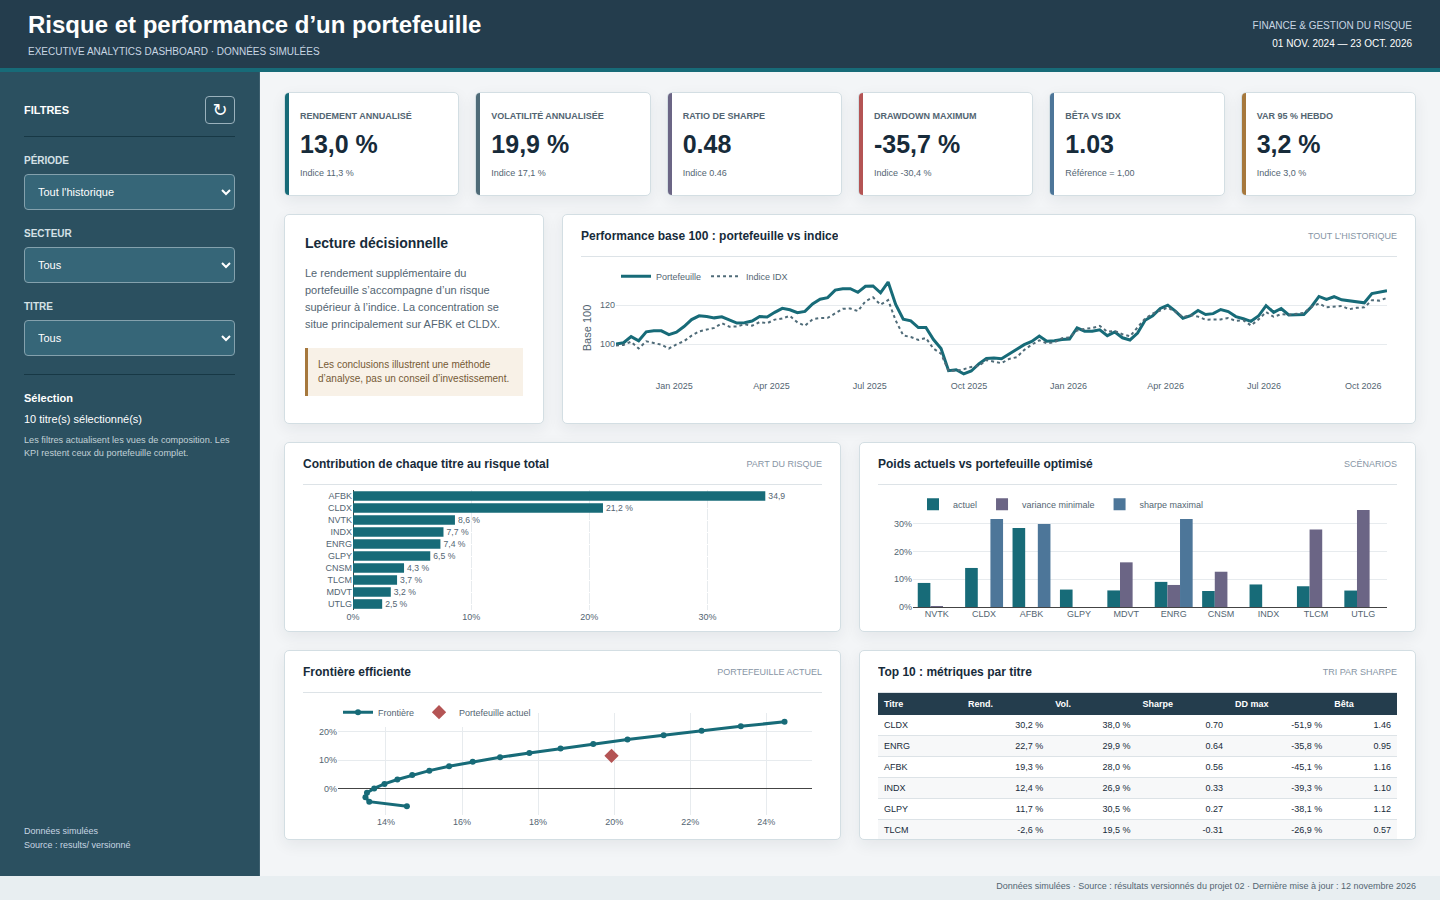
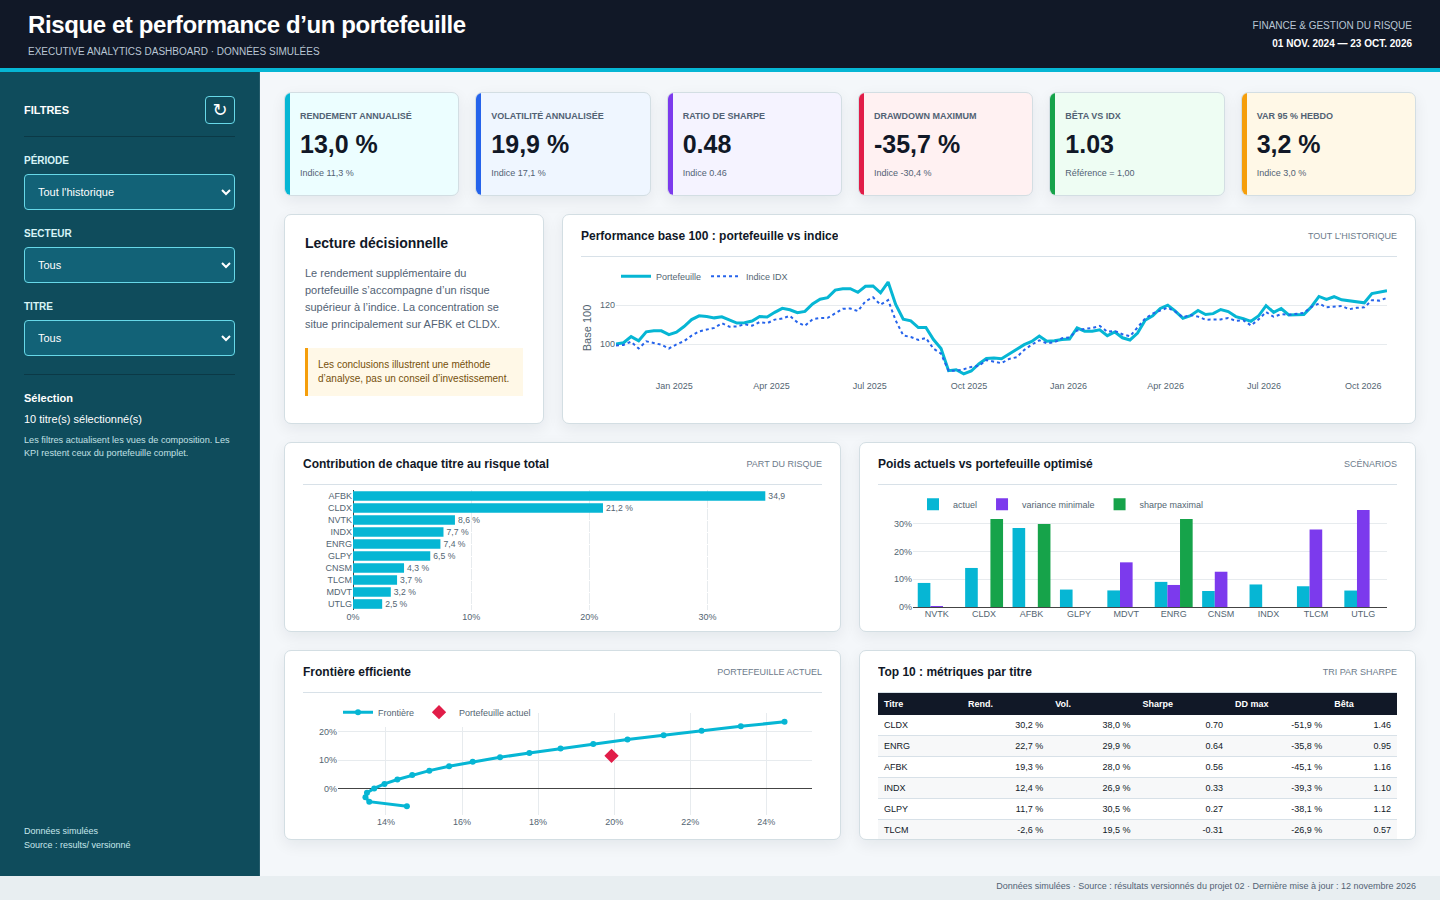
Ameliorer la palette visuelle du dashboard web

diff --git a/projects/02-portefeuille-risque/dashboard/web/styles.css b/projects/02-portefeuille-risque/dashboard/web/styles.css
@@ -1,1 +1,1 @@
-:root{font-family:"Segoe UI",Arial,sans-serif;color:#172B3A;background:#dfe6ea;--navy:#243D4D;--accent:#176B78;--muted:#536572;--line:#DDE3E7;--canvas:#F3F5F7;--surface:#fff;--positive:#2F7D62;--warn:#A6783D;--negative:#B45454}*{box-sizing:border-box}body{margin:0;min-width:320px;background:#dfe6ea}.dashboard{position:relative;width:min(1440px,100vw);min-height:900px;margin:auto;background:var(--canvas);display:grid;grid-template:72px 1fr 24px/260px 1fr;box-shadow:0 14px 40px #172b3a22}.topbar{grid-column:1/-1;background:var(--navy);color:#fff;padding:0 28px;display:flex;align-items:center;justify-content:space-between;border-bottom:4px solid var(--accent)}h1{font-size:24px;margin:0;font-weight:650} .topbar p,.context{font-size:10px;color:#c8d6e3;text-transform:uppercase;margin:7px 0 0}.context{text-align:right;margin:0;display:grid;gap:7px}.context strong{color:#fff;font-weight:500}.rail{grid-row:2;display:flex;flex-direction:column;gap:18px;padding:24px;color:#fff;background:#2b5060;border-right:1px solid #ffffff18}.rail-title{display:flex;justify-content:space-between;align-items:center;border-bottom:1px solid #173845;padding-bottom:12px;text-transform:uppercase;font-size:11px}.rail-title button{background:transparent;color:#fff;border:1px solid #9ab1bc;border-radius:4px;font-size:18px;width:30px;height:28px;cursor:pointer}.rail label{display:grid;gap:8px;color:#d5e1e6;font-size:10px;text-transform:uppercase;font-weight:650}.rail select{height:36px;background:#366678;color:#fff;border:1px solid #84a1ad;border-radius:4px;padding:0 9px;font-size:11px}.rail-note{display:grid;gap:9px;border-top:1px solid #173845;padding-top:17px;font-size:11px}.rail-note small{color:#c1d0d7;line-height:1.45}.rail footer{margin-top:auto;color:#c8d6e3;font-size:9px;line-height:1.5}.content{padding:20px 24px;display:grid;grid-template-rows:104px 210px 190px 190px;gap:18px;min-width:0}.kpis{display:grid;grid-template-columns:repeat(6,1fr);gap:16px}.kpi,.panel{background:#fff;border:1px solid #d3dee3;border-radius:5px;box-shadow:0 5px 15px #172b3a12}.kpi{position:relative;padding:18px 15px;display:grid;align-content:center;gap:9px;overflow:hidden}.kpi:before{content:"";position:absolute;left:0;top:0;bottom:0;width:4px;background:var(--accent-kpi)}.kpi label{font-size:9px;text-transform:uppercase;color:var(--muted);font-weight:650}.kpi strong{font-size:25px;font-weight:650;white-space:nowrap}.kpi small{font-size:9px;color:var(--muted)}.main-row,.two-row,.bottom-row{display:grid;gap:18px;min-width:0}.main-row{grid-template-columns:260px 1fr}.two-row,.bottom-row{grid-template-columns:1fr 1fr}.panel{padding:0 18px 12px;overflow:hidden}.panel header{height:42px;display:flex;align-items:center;justify-content:space-between;border-bottom:1px solid var(--line)}h2{font-size:12px;margin:0;font-weight:650;white-space:nowrap;overflow:hidden;text-overflow:ellipsis}.panel header span{font-size:9px;color:#8795a5;text-transform:uppercase}.plot{height:calc(100% - 42px);min-height:0}.filters-summary{padding:20px}.filters-summary h2{font-size:14px;margin-bottom:14px}.filters-summary p{font-size:11px;line-height:1.55;color:var(--muted);margin:0 0 15px}.notice{background:#f8f1e7;border-left:3px solid var(--warn);padding:10px;font-size:10px;line-height:1.4;color:#765a35}.table-panel{padding-bottom:0}.table-wrap{height:calc(100% - 42px);overflow:auto}.metrics-table{width:100%;border-collapse:collapse;font-size:9px}.metrics-table th{background:var(--navy);color:#fff;text-align:left;padding:6px}.metrics-table td{padding:5px 6px;border-bottom:1px solid var(--line);white-space:nowrap}.metrics-table tr:nth-child(even){background:#f7f8f9}.metrics-table td:not(:first-child){text-align:right}.page-footer{grid-column:1/-1;background:#e8eef1;color:var(--muted);font-size:9px;padding:5px 24px;text-align:right}@media(max-width:1050px){.dashboard{display:block;min-height:100vh}.topbar{height:72px}.rail{display:grid;grid-template-columns:repeat(3,1fr);gap:12px;padding:16px}.rail-title{grid-column:1/-1}.rail footer{display:none}.content{display:block;padding:16px}.kpis{overflow:auto;grid-template-columns:repeat(6,170px);padding-bottom:10px}.main-row,.two-row,.bottom-row{grid-template-columns:1fr;margin-top:16px}.panel{min-height:260px}.page-footer{display:none}}
+:root{font-family:"Segoe UI",Arial,sans-serif;color:#111827;background:#dbe4ea;--navy:#111827;--cyan:#06B6D4;--blue:#2563EB;--purple:#7C3AED;--green:#16A34A;--orange:#F59E0B;--red:#E11D48;--muted:#526274;--line:#D8E1E8;--canvas:#F4F7FA;--surface:#fff}*{box-sizing:border-box}body{margin:0;min-width:320px;background:#dbe4ea}.dashboard{position:relative;width:min(1440px,100vw);min-height:900px;margin:auto;background:var(--canvas);display:grid;grid-template:72px 1fr 24px/260px 1fr;box-shadow:0 14px 40px #11182730}.topbar{grid-column:1/-1;background:var(--navy);color:#fff;padding:0 28px;display:flex;align-items:center;justify-content:space-between;border-bottom:4px solid var(--cyan)}h1{font-size:24px;margin:0;font-weight:700;letter-spacing:-.4px}.topbar p,.context{font-size:10px;color:#b9c6d4;text-transform:uppercase;margin:7px 0 0}.context{text-align:right;margin:0;display:grid;gap:7px}.context strong{color:#fff;font-weight:600}.rail{grid-row:2;display:flex;flex-direction:column;gap:18px;padding:24px;color:#fff;background:#0F4C5C;border-right:1px solid #ffffff18}.rail-title{display:flex;justify-content:space-between;align-items:center;border-bottom:1px solid #0b3946;padding-bottom:12px;text-transform:uppercase;font-size:11px}.rail-title button{background:transparent;color:#fff;border:1px solid #67D8E8;border-radius:4px;font-size:18px;width:30px;height:28px;cursor:pointer}.rail-title button:hover{background:var(--cyan);color:#06252d}.rail label{display:grid;gap:8px;color:#d8f4f7;font-size:10px;text-transform:uppercase;font-weight:700}.rail select{height:36px;background:#126277;color:#fff;border:1px solid #67D8E8;border-radius:4px;padding:0 9px;font-size:11px}.rail-note{display:grid;gap:9px;border-top:1px solid #0b3946;padding-top:17px;font-size:11px}.rail-note small{color:#c1e0e5;line-height:1.45}.rail footer{margin-top:auto;color:#c8e8ec;font-size:9px;line-height:1.5}.content{padding:20px 24px;display:grid;grid-template-rows:104px 210px 190px 190px;gap:18px;min-width:0}.kpis{display:grid;grid-template-columns:repeat(6,1fr);gap:16px}.kpi,.panel{background:#fff;border:1px solid #d3dee3;border-radius:7px;box-shadow:0 5px 15px #11182712}.kpi{position:relative;padding:18px 15px;display:grid;align-content:center;gap:9px;overflow:hidden}.kpi:before{content:"";position:absolute;left:0;top:0;bottom:0;width:5px;background:var(--accent-kpi)}.kpi:nth-child(1){background:#ECFEFF}.kpi:nth-child(2){background:#EFF6FF}.kpi:nth-child(3){background:#F5F3FF}.kpi:nth-child(4){background:#FFF1F2}.kpi:nth-child(5){background:#EEFDF3}.kpi:nth-child(6){background:#FFF8E7}.kpi label{font-size:9px;text-transform:uppercase;color:#526274;font-weight:700}.kpi strong{font-size:25px;font-weight:750;white-space:nowrap}.kpi small{font-size:9px;color:#526274}.main-row,.two-row,.bottom-row{display:grid;gap:18px;min-width:0}.main-row{grid-template-columns:260px 1fr}.two-row,.bottom-row{grid-template-columns:1fr 1fr}.panel{padding:0 18px 12px;overflow:hidden}.panel header{height:42px;display:flex;align-items:center;justify-content:space-between;border-bottom:1px solid var(--line)}h2{font-size:12px;margin:0;font-weight:750;white-space:nowrap;overflow:hidden;text-overflow:ellipsis}.panel header span{font-size:9px;color:#6d7b8b;text-transform:uppercase}.plot{height:calc(100% - 42px);min-height:0}.filters-summary{padding:20px}.filters-summary h2{font-size:14px;margin-bottom:14px}.filters-summary p{font-size:11px;line-height:1.55;color:var(--muted);margin:0 0 15px}.notice{background:#FFF8E7;border-left:3px solid var(--orange);padding:10px;font-size:10px;line-height:1.4;color:#76500b}.table-panel{padding-bottom:0}.table-wrap{height:calc(100% - 42px);overflow:auto}.metrics-table{width:100%;border-collapse:collapse;font-size:9px}.metrics-table th{background:var(--navy);color:#fff;text-align:left;padding:6px}.metrics-table td{padding:5px 6px;border-bottom:1px solid var(--line);white-space:nowrap}.metrics-table tr:nth-child(even){background:#f7f8f9}.metrics-table td:not(:first-child){text-align:right}.page-footer{grid-column:1/-1;background:#e8eef1;color:var(--muted);font-size:9px;padding:5px 24px;text-align:right}@media(max-width:1050px){.dashboard{display:block;min-height:100vh}.topbar{height:72px}.rail{display:grid;grid-template-columns:repeat(3,1fr);gap:12px;padding:16px}.rail-title{grid-column:1/-1}.rail footer{display:none}.content{display:block;padding:16px}.kpis{overflow:auto;grid-template-columns:repeat(6,170px);padding-bottom:10px}.main-row,.two-row,.bottom-row{grid-template-columns:1fr;margin-top:16px}.panel{min-height:260px}.page-footer{display:none}}

diff --git a/projects/02-portefeuille-risque/dashboard/web/app.js b/projects/02-portefeuille-risque/dashboard/web/app.js
@@ -3,11 +3,11 @@ async function load(){for(const f of files){const r=await fetch(base+f+'.json');
 function populate(){const sectors=[...new Set(state.data.weights.map(x=>x.sector))].sort();for(const x of sectors)$('#sector').insertAdjacentHTML('beforeend',`<option>${x}</option>`);for(const x of state.data.weights.map(x=>x.ticker).sort())$('#ticker').insertAdjacentHTML('beforeend',`<option>${x}</option>`)}
 function bind(){['period','sector','ticker'].forEach(k=>$('#'+k).addEventListener('change',e=>{state.filters[k]=e.target.value;update()}));$('#reset').addEventListener('click',()=>{state.filters={period:'all',sector:'Tous',ticker:'Tous'};['period','sector','ticker'].forEach(k=>$('#'+k).value=state.filters[k]);update()})}
 function filtered(){let w=state.data.weights.slice();if(state.filters.sector!=='Tous')w=w.filter(x=>x.sector===state.filters.sector);if(state.filters.ticker!=='Tous')w=w.filter(x=>x.ticker===state.filters.ticker);return w}
-function update(){const m=Object.fromEntries(state.data.metrics_portfolio_vs_index.map(x=>[x['Unnamed: 0'],x]));const p=m.portefeuille,i=m.indice_IDX;const cards=[['Rendement annualisé',fmtPct(p.rendement_annualise),`Indice ${fmtPct(i.rendement_annualise)}`,'#176B78'],['Volatilité annualisée',fmtPct(p.volatilite_annualisee),`Indice ${fmtPct(i.volatilite_annualisee)}`,'#4F6B78'],['Ratio de Sharpe',Number(p.ratio_sharpe).toFixed(2),`Indice ${Number(i.ratio_sharpe).toFixed(2)}`,'#6B6585'],['Drawdown maximum',fmtPct(p.drawdown_max),`Indice ${fmtPct(i.drawdown_max)}`,'#B45454'],['Bêta vs IDX',Number(p.beta_vs_IDX).toFixed(2),'Référence = 1,00','#4D7699'],['VaR 95 % hebdo',fmtPct(p.VaR_95_hebdo),`Indice ${fmtPct(i.VaR_95_hebdo)}`,'#A6783D']];$('#kpis').innerHTML=cards.map(c=>`<article class="kpi" style="--accent-kpi:${c[3]}"><label>${c[0]}</label><strong>${c[1]}</strong><small>${c[2]}</small></article>`).join('');const w=filtered(),tickers=new Set(w.map(x=>x.ticker));$('#selection').textContent=`${w.length} titre(s) sélectionné(s)`;const risk=state.data.risk_contribution.filter(x=>tickers.has(x.ticker)).sort((a,b)=>b.contribution_risque-a.contribution_risque);const ow=state.data.optimization_weights.filter(x=>tickers.has(x.ticker));const perf=state.data.performance_base100.slice(-(state.filters.period==='all'?103:Number(state.filters.period)));$('#period-label').textContent=state.filters.period==='all'?'Tout l’historique':`${state.filters.period} dernières semaines`;plotPerf(perf);plotRisk(risk);plotWeights(ow);plotFrontier();table(state.data.metrics_by_asset.filter(x=>tickers.has(x.ticker)))}
+function update(){const m=Object.fromEntries(state.data.metrics_portfolio_vs_index.map(x=>[x['Unnamed: 0'],x]));const p=m.portefeuille,i=m.indice_IDX;const cards=[['Rendement annualisé',fmtPct(p.rendement_annualise),`Indice ${fmtPct(i.rendement_annualise)}`,'#06B6D4'],['Volatilité annualisée',fmtPct(p.volatilite_annualisee),`Indice ${fmtPct(i.volatilite_annualisee)}`,'#2563EB'],['Ratio de Sharpe',Number(p.ratio_sharpe).toFixed(2),`Indice ${Number(i.ratio_sharpe).toFixed(2)}`,'#7C3AED'],['Drawdown maximum',fmtPct(p.drawdown_max),`Indice ${fmtPct(i.drawdown_max)}`,'#E11D48'],['Bêta vs IDX',Number(p.beta_vs_IDX).toFixed(2),'Référence = 1,00','#16A34A'],['VaR 95 % hebdo',fmtPct(p.VaR_95_hebdo),`Indice ${fmtPct(i.VaR_95_hebdo)}`,'#F59E0B']];$('#kpis').innerHTML=cards.map(c=>`<article class="kpi" style="--accent-kpi:${c[3]}"><label>${c[0]}</label><strong>${c[1]}</strong><small>${c[2]}</small></article>`).join('');const w=filtered(),tickers=new Set(w.map(x=>x.ticker));$('#selection').textContent=`${w.length} titre(s) sélectionné(s)`;const risk=state.data.risk_contribution.filter(x=>tickers.has(x.ticker)).sort((a,b)=>b.contribution_risque-a.contribution_risque);const ow=state.data.optimization_weights.filter(x=>tickers.has(x.ticker));const perf=state.data.performance_base100.slice(-(state.filters.period==='all'?103:Number(state.filters.period)));$('#period-label').textContent=state.filters.period==='all'?'Tout l’historique':`${state.filters.period} dernières semaines`;plotPerf(perf);plotRisk(risk);plotWeights(ow);plotFrontier();table(state.data.metrics_by_asset.filter(x=>tickers.has(x.ticker)))}
 const layout=(title)=>({height:150,margin:{l:35,r:10,t:5,b:28},paper_bgcolor:'#fff',plot_bgcolor:'#fff',font:{family:'Segoe UI,Arial',size:9,color:'#536572'},showlegend:true,legend:{orientation:'h',x:0,y:1.15},title:{text:title,font:{size:1}}});
-function plotPerf(d){Plotly.react('performance',[{x:d.map(x=>x.date),y:d.map(x=>x.portefeuille),name:'Portefeuille',line:{color:'#176B78',width:3}},{x:d.map(x=>x.date),y:d.map(x=>x.IDX),name:'Indice IDX',line:{color:'#4F6B78',width:2,dash:'dot'}}],{...layout(),yaxis:{title:'Base 100',gridcolor:'#E7EBEE'},xaxis:{gridcolor:'#fff'}},{displayModeBar:false,responsive:true})}
-function plotRisk(d){Plotly.react('risk',[{x:d.map(x=>x.contribution_risque).reverse(),y:d.map(x=>x.ticker).reverse(),type:'bar',orientation:'h',showlegend:false,marker:{color:'#176B78'},text:d.map(x=>fmtPct(x.contribution_risque)).reverse(),textposition:'outside'}],{...layout(),showlegend:false,margin:{l:50,r:35,t:5,b:25},xaxis:{tickformat:'.0%',gridcolor:'#E7EBEE'},yaxis:{gridcolor:'#fff'}},{displayModeBar:false,responsive:true})}
-function plotWeights(d){const labels=['actuel','variance_minimale','sharpe_maximal'];Plotly.react('weights',labels.map((k,j)=>({x:d.map(x=>x.ticker),y:d.map(x=>x[k]),name:k.replace('_',' '),type:'bar',marker:{color:['#176B78','#6B6585','#4D7699'][j]}})),{...layout(),barmode:'group',yaxis:{tickformat:'.0%',gridcolor:'#E7EBEE'}},{displayModeBar:false,responsive:true})}
-function plotFrontier(){const f=state.data.efficient_frontier,s=state.data.optimization_summary.find(x=>x['Unnamed: 0']==='actuel');Plotly.react('frontier',[{x:f.map(x=>x.volatilite),y:f.map(x=>x.rendement),mode:'lines+markers',name:'Frontière',line:{color:'#176B78',width:3}},{x:[s.volatilite],y:[s.rendement],mode:'markers',name:'Portefeuille actuel',marker:{color:'#B45454',size:11,symbol:'diamond'}}],{...layout(),xaxis:{tickformat:'.0%',gridcolor:'#E7EBEE'},yaxis:{tickformat:'.0%',gridcolor:'#E7EBEE'}},{displayModeBar:false,responsive:true})}
+function plotPerf(d){Plotly.react('performance',[{x:d.map(x=>x.date),y:d.map(x=>x.portefeuille),name:'Portefeuille',line:{color:'#06B6D4',width:3}},{x:d.map(x=>x.date),y:d.map(x=>x.IDX),name:'Indice IDX',line:{color:'#2563EB',width:2,dash:'dot'}}],{...layout(),yaxis:{title:'Base 100',gridcolor:'#E7EBEE'},xaxis:{gridcolor:'#fff'}},{displayModeBar:false,responsive:true})}
+function plotRisk(d){Plotly.react('risk',[{x:d.map(x=>x.contribution_risque).reverse(),y:d.map(x=>x.ticker).reverse(),type:'bar',orientation:'h',showlegend:false,marker:{color:'#06B6D4'},text:d.map(x=>fmtPct(x.contribution_risque)).reverse(),textposition:'outside'}],{...layout(),showlegend:false,margin:{l:50,r:35,t:5,b:25},xaxis:{tickformat:'.0%',gridcolor:'#E7EBEE'},yaxis:{gridcolor:'#fff'}},{displayModeBar:false,responsive:true})}
+function plotWeights(d){const labels=['actuel','variance_minimale','sharpe_maximal'];Plotly.react('weights',labels.map((k,j)=>({x:d.map(x=>x.ticker),y:d.map(x=>x[k]),name:k.replace('_',' '),type:'bar',marker:{color:['#06B6D4','#7C3AED','#16A34A'][j]}})),{...layout(),barmode:'group',yaxis:{tickformat:'.0%',gridcolor:'#E7EBEE'}},{displayModeBar:false,responsive:true})}
+function plotFrontier(){const f=state.data.efficient_frontier,s=state.data.optimization_summary.find(x=>x['Unnamed: 0']==='actuel');Plotly.react('frontier',[{x:f.map(x=>x.volatilite),y:f.map(x=>x.rendement),mode:'lines+markers',name:'Frontière',line:{color:'#06B6D4',width:3}},{x:[s.volatilite],y:[s.rendement],mode:'markers',name:'Portefeuille actuel',marker:{color:'#E11D48',size:11,symbol:'diamond'}}],{...layout(),xaxis:{tickformat:'.0%',gridcolor:'#E7EBEE'},yaxis:{tickformat:'.0%',gridcolor:'#E7EBEE'}},{displayModeBar:false,responsive:true})}
 function table(d){d=[...d].sort((a,b)=>b.ratio_sharpe-a.ratio_sharpe);$('#table').innerHTML='<div class="table-wrap"><table class="metrics-table"><thead><tr><th>Titre</th><th>Rend.</th><th>Vol.</th><th>Sharpe</th><th>DD max</th><th>Bêta</th></tr></thead><tbody>'+d.map(x=>`<tr><td>${x.ticker}</td><td>${fmtPct(x.rendement_annualise)}</td><td>${fmtPct(x.volatilite_annualisee)}</td><td>${Number(x.ratio_sharpe).toFixed(2)}</td><td>${fmtPct(x.drawdown_max)}</td><td>${Number(x.beta_vs_IDX).toFixed(2)}</td></tr>`).join('')+'</tbody></table></div>'}
 load().catch(e=>{document.body.innerHTML='<p style="padding:2rem;font-family:Arial">Chargement impossible. Ouvrez la version web avec un serveur local, par exemple <code>python3 -m http.server 8000</code>.</p>';console.error(e)});
